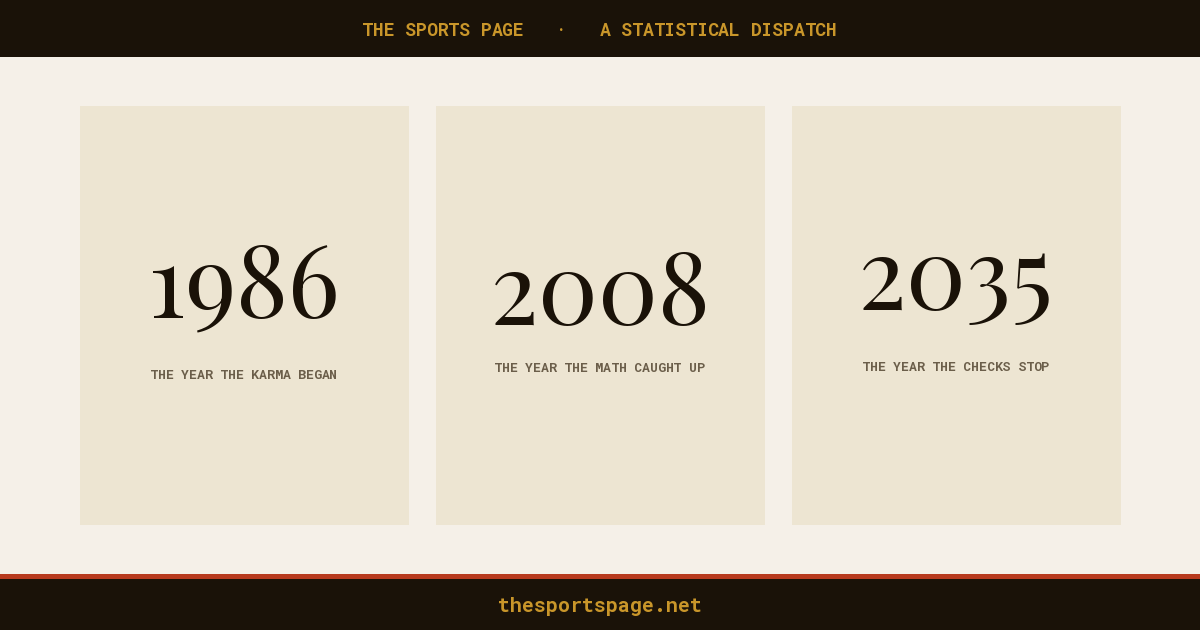
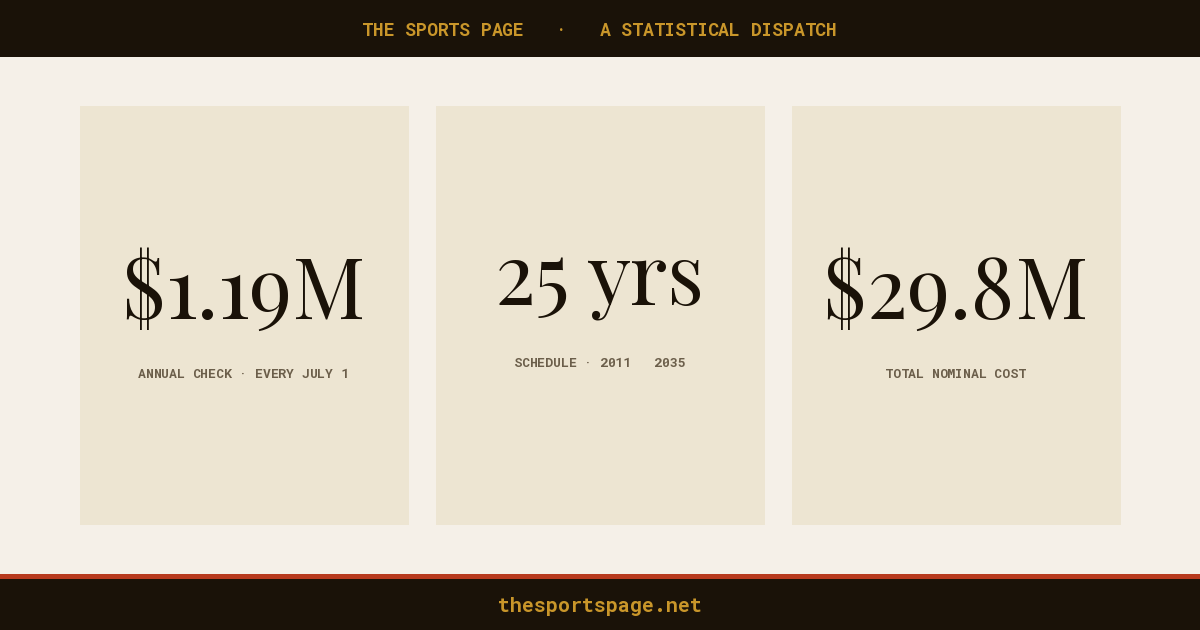
Bobby Bonilla Day: swap stat cards to money + duration
Year-arc cards (1986/2008/2035) moved to the prose; the OG card hero
now leads with the dollars-and-time hook: $1.19M annual / 25 yrs
(2011→2035) / $29.8M total nominal cost. The year arc still carries
the narrative in the deck and body — it just isn't the inbox/social
preview anymore. Cards regenerated.

diff --git a/queue/bobby-bonilla-day.html b/queue/bobby-bonilla-day.html
@@ -113,9 +113,9 @@ hr{border:none;border-top:1px solid var(--div);margin:1.5rem 0}
   <div class="byline">By The Sports Page &middot; In Honor of an Annual Tradition &middot; July 1, 2026</div>
 
   <div class="stat-row">
-    <div class="sc"><div class="v bad">1986</div><div class="l">The Year the Karma Began</div></div>
-    <div class="sc"><div class="v now">2008</div><div class="l">The Year the Math Caught Up</div></div>
-    <div class="sc"><div class="v good">2035</div><div class="l">The Year the Checks Stop</div></div>
+    <div class="sc"><div class="v bad">$1.19M</div><div class="l">Annual Check &middot; Every July 1</div></div>
+    <div class="sc"><div class="v now">25 yrs</div><div class="l">Schedule &middot; 2011 &rarr; 2035</div></div>
+    <div class="sc"><div class="v good">$29.8M</div><div class="l">Total Nominal Cost</div></div>
   </div>
 
   <p>The check goes out today. It will go out next July 1, and the one after that, and the one after that. The check will continue to go out until 2035, by which point Bobby Bonilla will be seventy-two years old, will have not played for the New York Mets in thirty-five years, and will have collected, in total, approximately thirty million dollars for not playing.</p>